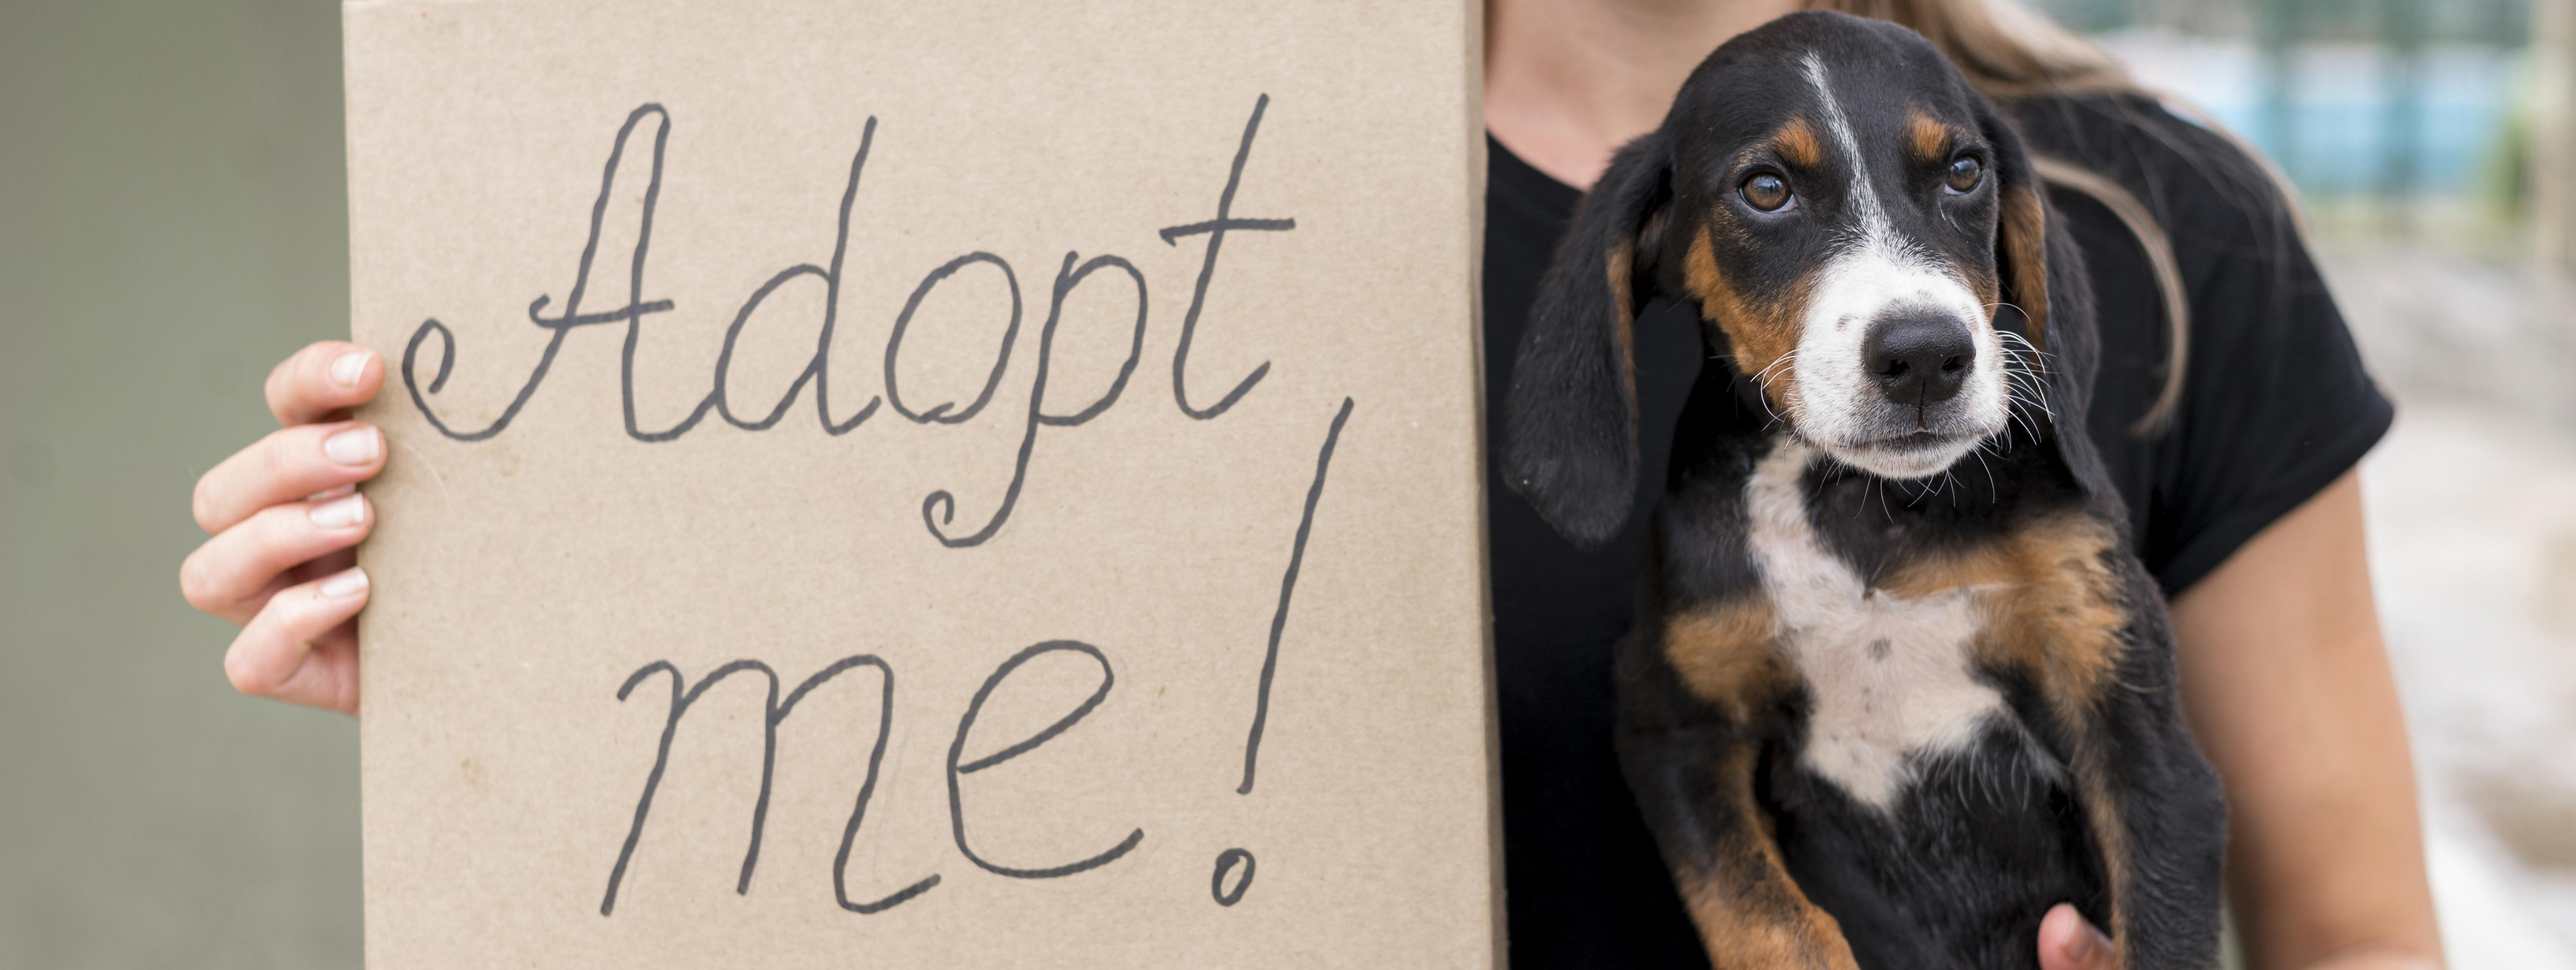
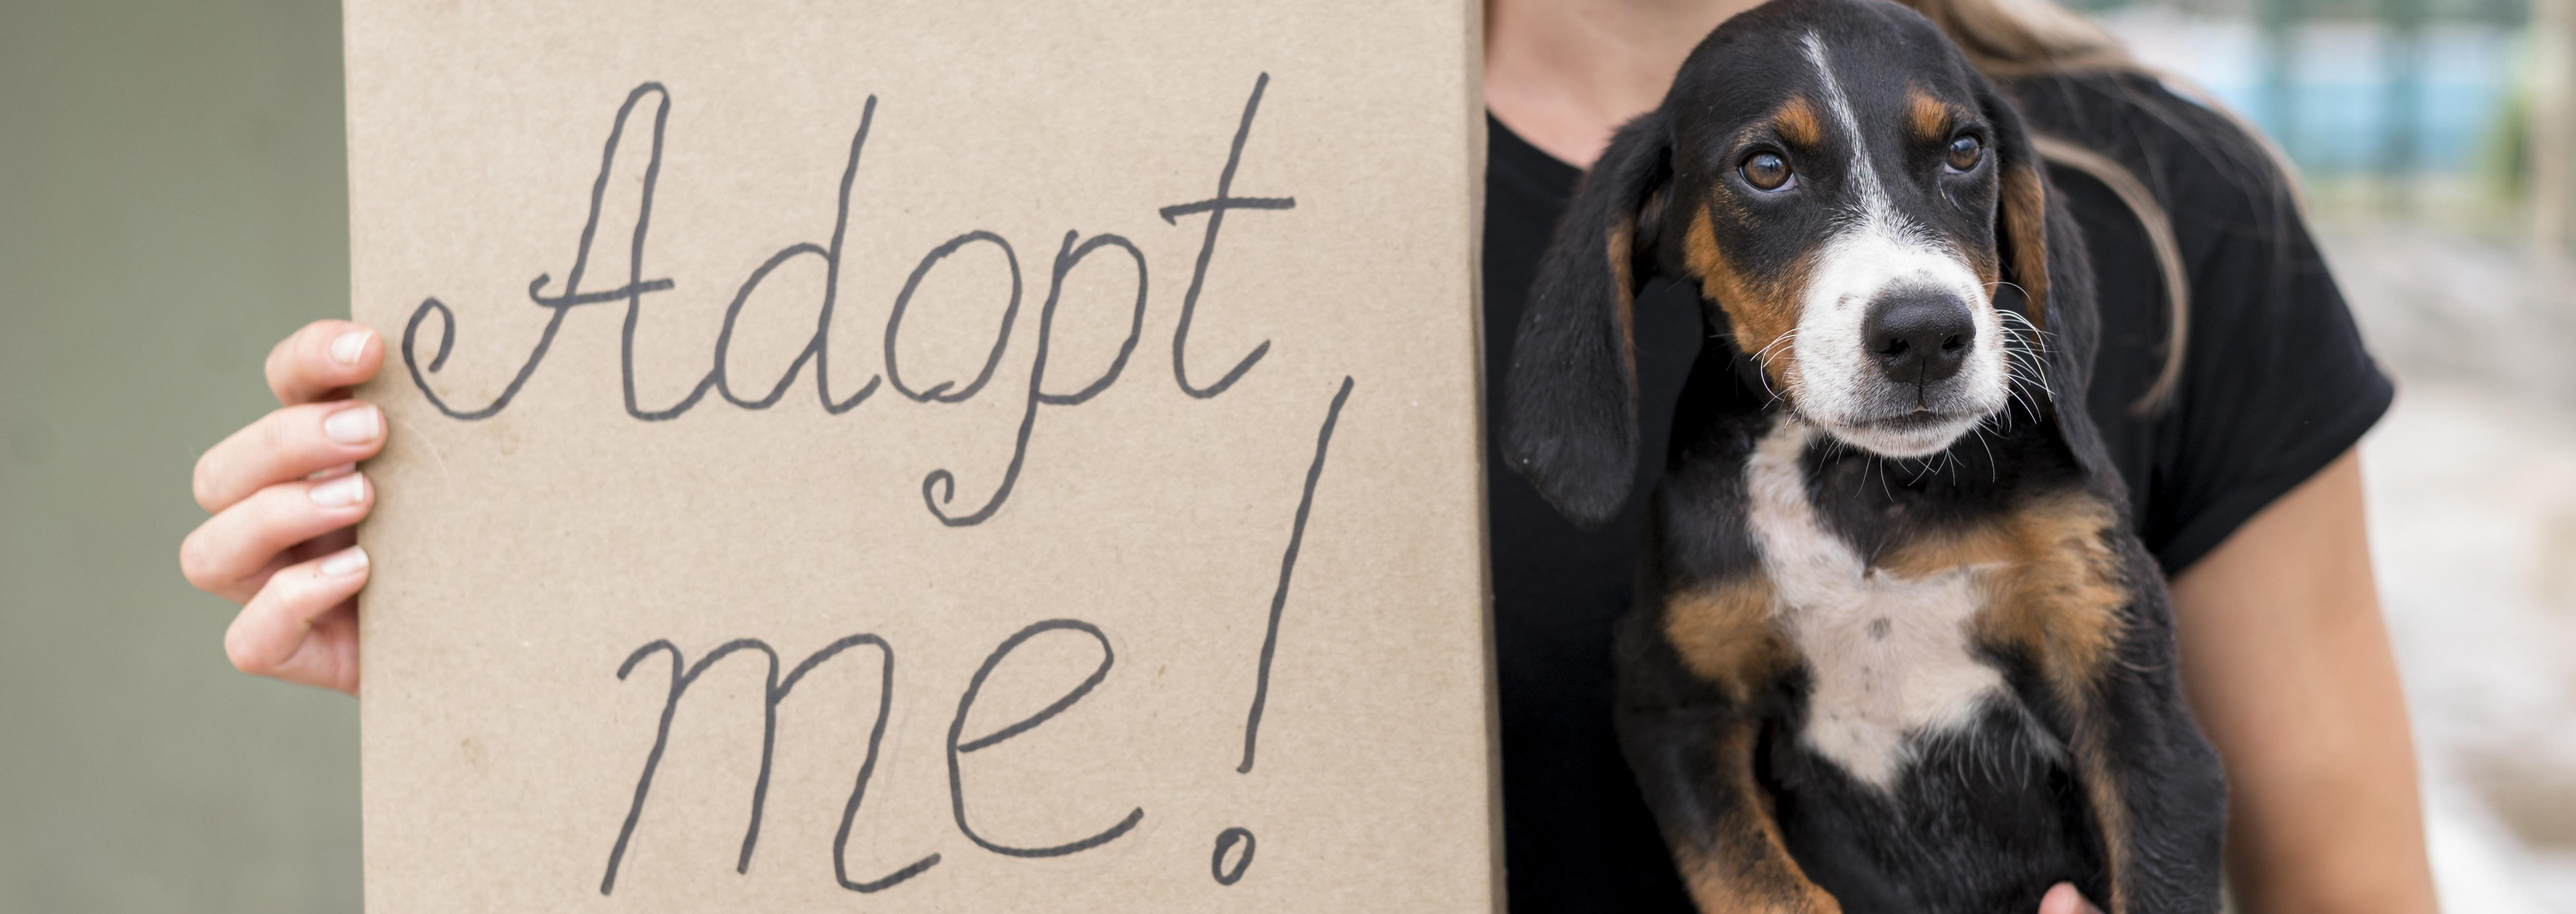
Commit Mati
Modificaciones en Avances y Proyecto

diff --git a/style.css b/style.css
@@ -111,7 +111,7 @@ ul {
   justify-content: center;
 }
 
-.caja{
+.cajaIntegrantes{
   display: grid;
   grid-template-rows: 1fr 1fr;
   grid-template-columns: 1fr 1fr;
@@ -120,6 +120,7 @@ ul {
   grid-column-gap: 80px;
   grid-row-gap: 50px;
   margin-bottom: 10px;
+  padding: 2rem 1rem;
 }
 
 .cajaIntegrante1 {
@@ -165,7 +166,6 @@ ul {
 .fotoIntegrantes {
   border-radius: 30px;
   width: 115px;
-  margin-top: 45px;
 }
 
 .texto-boton a {
@@ -190,33 +190,26 @@ ul {
 
 
 /* Seccion Proyecto */
-.main-inicio{
-background-image: url(/img/Perros-en-adopcion_nota.png);
-}
-
-
-
-.main-inicio {
-  display: flex;
-  justify-content: center;
-}
 
 .seccion-propuesta {
-  background-color: #F3F3F3;
-  height: 300px;
-  width: 800px;
-  margin: 35px 0px;
-  border-radius: 20px;
-  padding: 40px 80px;
+  padding: 1rem;
+  box-shadow: 10px 10px 10px rgba(0, 0, 0, 0.5);
+  background-color: #dddddd;
+  border-radius: 30px;
+  display: flex;
+  justify-content: space-between;
+  max-width: 600px;
+  margin: 2rem auto;
+  flex-direction: column;
 }
 
-.seccion-propuesta h1 {
+.tituloProyecto {
   text-align: center;
-  color: #d4b7b7;
   font-size: 40px;
   font-weight: 600;
   margin-bottom: 20px;
 }
+
 
 .seccion-propuesta p {
   color: #5E5E5E;
@@ -231,6 +224,18 @@ background-image: url(/img/Perros-en-adopcion_nota.png);
 
 /* seccion avances */
 
+.cajaAvances{
+  display: grid;
+  grid-template-rows: 1fr 1fr;
+  grid-template-columns: 1fr 1fr;
+  justify-content: center;
+  align-items: center;
+  grid-column-gap: 80px;
+  grid-row-gap: 50px;
+  margin-bottom: 10px;
+  padding: 2rem 1rem;
+}
+
 .container1Avances {
   padding: 1rem;
   box-shadow: 10px 10px 10px rgba(0, 0, 0, 0.5);
@@ -238,24 +243,35 @@ background-image: url(/img/Perros-en-adopcion_nota.png);
   border-radius: 30px;
   display: flex;
   justify-content: center;
-  width: 60%;
+  width: 65%;
   margin: 2rem auto;
   flex-direction: column;
   align-items: center;
+  max-width: 800px;
 }
 .container2Avances{
   padding: 1rem;
   box-shadow: 10px 10px 10px rgba(0, 0, 0, 0.5);
-  background-color: #F3F3F3;
+  background-color: #dddddd;
   border-radius: 30px;
   display: flex;
   justify-content: center;
-  width: 40%;
+  width: 50%;
   margin: 2rem auto;
   flex-direction: column;
   align-items: center;
+  max-width: 500px;
+  margin-top: 3rem;
 
 }
+
+.tituloAvances {
+  text-align: center;
+  font-size: 40px;
+  font-weight: 600;
+  margin-bottom: 20px;
+}
+
 .avanceslogo{
   display: flex;
   justify-content: center;
@@ -288,23 +304,26 @@ background-image: url(/img/Perros-en-adopcion_nota.png);
   border-radius: 20px;
   font-size: 25px;
   font-weight: 600;
-  text-shadow: 1px 1px 4px rgba(0, 0, 0, 0.5);
+  text-shadow: 2px 2px 4px rgba(0, 0, 0, 0.5);
   margin: 1rem
 }
 
 #color1{
 background-color:#d4b7b7;
-box-shadow:  1px 1px 4px rgba(0, 0, 0, 0.5);
+box-shadow:  5px 5px 4px rgba(0, 0, 0, 0.5);
+border: black solid 3px;
 }
 
 #color2{
 background-color:#dddddd ;
-box-shadow:  1px 1px 4px rgba(0, 0, 0, 0.5);
+box-shadow:  5px 5px 4px rgba(0, 0, 0, 0.5);
+border: black solid 3px;
 }
 
 #color3{
 background-color:#000000 ;
-box-shadow:  1px 1px 4px rgba(0, 0, 0, 0.5);
+box-shadow:  5px 5px 4px rgba(0, 0, 0, 0.5);
+border: black solid 3px;
 }  
 
 

diff --git a/avances.html b/avances.html
@@ -5,7 +5,6 @@
     <meta name="viewport" content="width=device-width, initial-scale=1.0" />
     <link rel="stylesheet" href="style.css" />
     <title>Huellitas de Esperanza</title>
-    <link rel="icon" href="/img/huella.png" type="image/x-icon">
   </head>
   <body>
     <header>
@@ -37,17 +36,13 @@
     </header>
     <main>
       <div>
-        <img
-          class="fotoPerro"
-          src="img/goldenmar.jpg"
-          alt="fondo_perros"
-        />
+        <img class="fotoPerro" src="img/cute-rescue-dog-shelter-being-held-by-woman2.jpg" alt="fondo_perros"/>
       </div>
       <section class="container1Avances">
-        <div class="propuesta">
+        <div class="tituloAvances">
             <h1>Propuesta</h1>
         </div>
-        <div class="caja">
+        <div class="cajaAvances">
             <p class="parrafo">Nuestra principal idea como grupo fue buscar ayudar a los que se encargan de ubicar a perritos en situacion de calle y ayudarlos a tener una vida mejor.</p>
             <p class="parrafo">Buscamos atraer trafico de gente a traves de las redes sociales como Instagram, TikTok, Twitter y tambien haciendo distintas colaboraciones con influencers que se encuentren atraidos por la causa</p>
             <p class="parrafo">Otra forma de ayudar a esta organizacion puede ser donando ya que esto les haria de mucha ayuda a mantener la buena alimentacion de los perros a la ONG.Buscamos llegar a la gente desde esta pagina o por nuestras redes sociales.</p>

diff --git a/proyecto.html b/proyecto.html
@@ -5,7 +5,6 @@
     <meta name="viewport" content="width=device-width, initial-scale=1.0" />
     <link rel="stylesheet" href="style.css" />
     <title>Huellitas de Esperanza</title>
-    <link rel="icon" href="/img/huella.png" type="image/x-icon">
   </head>
   <body>
     <header>
@@ -35,15 +34,11 @@
         </li>
       </nav>
     </header>
-    <main class="main-inicio">
-      <div class="div-perrito">
-        <img
-          class="perrito"
-          src="img/Perros-en-adopcion_nota.png"
-          alt="fondo_perros"
-        />
+    <main>
+      <div>
+        <img class="fotoPerro" src="img/woman-playing-with-rescue-dogs-shelter2.jpg" alt="fondo_perros"/>
       <section class="seccion-propuesta">
-        <div class="h1-propuesta">
+        <div class="tituloProyecto">
           <h1>Propuesta</h1>
         </div>
         <div class="div-propuesta">

diff --git a/integrantes.html b/integrantes.html
@@ -5,7 +5,6 @@
     <meta name="viewport" content="width=device-width, initial-scale=1.0">
     <link rel="stylesheet" href="style.css">
     <title>Huellitas de Esperanza</title>
-    <link rel="icon" href="/img/huella.png" type="image/x-icon">
 </head>
 <body>
     <Header>
@@ -38,7 +37,7 @@
                 <div class="titulo">
                     <h1>Integrantes</h1>
                 </div>
-                <div class="caja">
+                <div class="cajaIntegrantes">
                     <div class="cajaIntegrante1">
                         <div>
                             <img class="fotoIntegrantes" src="img/foto berna.jpg" height="150px">

diff --git a/index.html b/index.html
@@ -5,7 +5,6 @@
     <meta name="viewport" content="width=device-width, initial-scale=1.0">
     <link rel="stylesheet" href="style.css">
     <title>Huellitas de Esperanza</title>
-    <link rel="icon" href="/img/huella.png" type="image/x-icon">
 </head>
 <body>
     <Header>
@@ -35,7 +34,7 @@
     </Header>
     <main>
       <div>
-        <img class="fotoPerro" src="img/foto adoptme.jpg" alt="fondo_perros" />
+        <img class="fotoPerro" src="img/woman-holding-adopt-me-sign-rescue-dog.jpg" alt="fondo_perros" />
       </div>
       <div class="containerIndex">
         <div class="listado">
